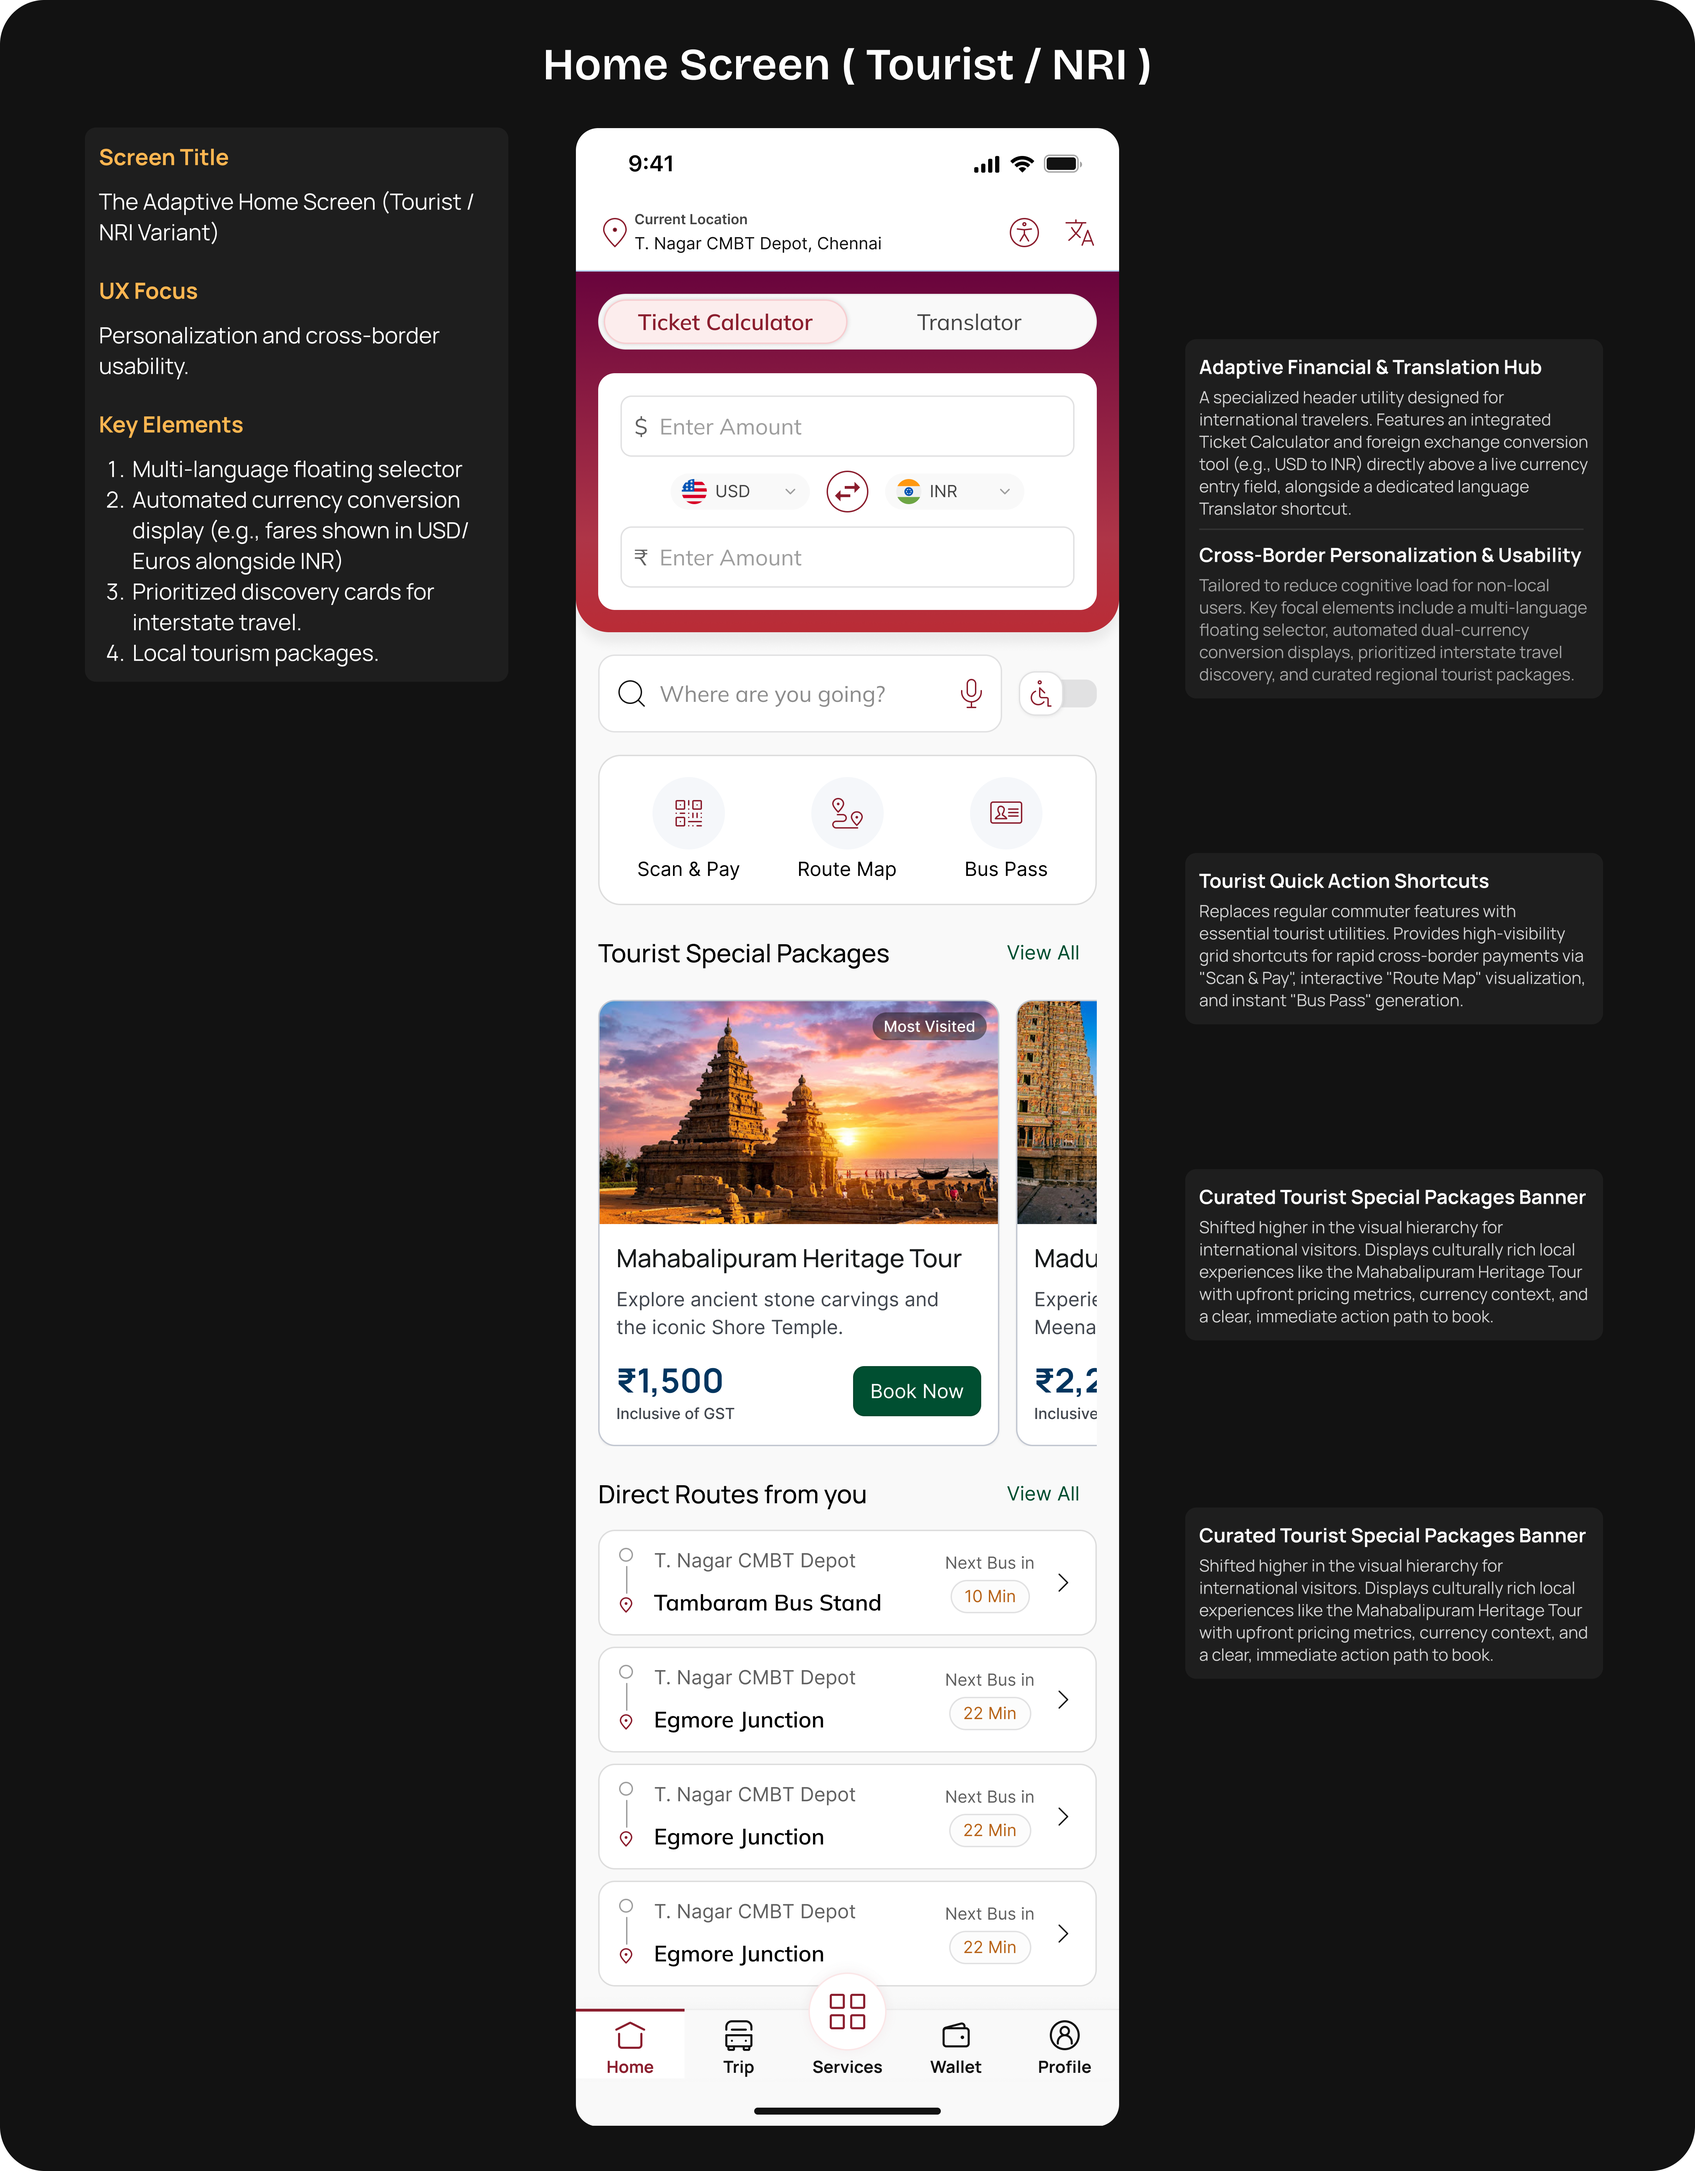
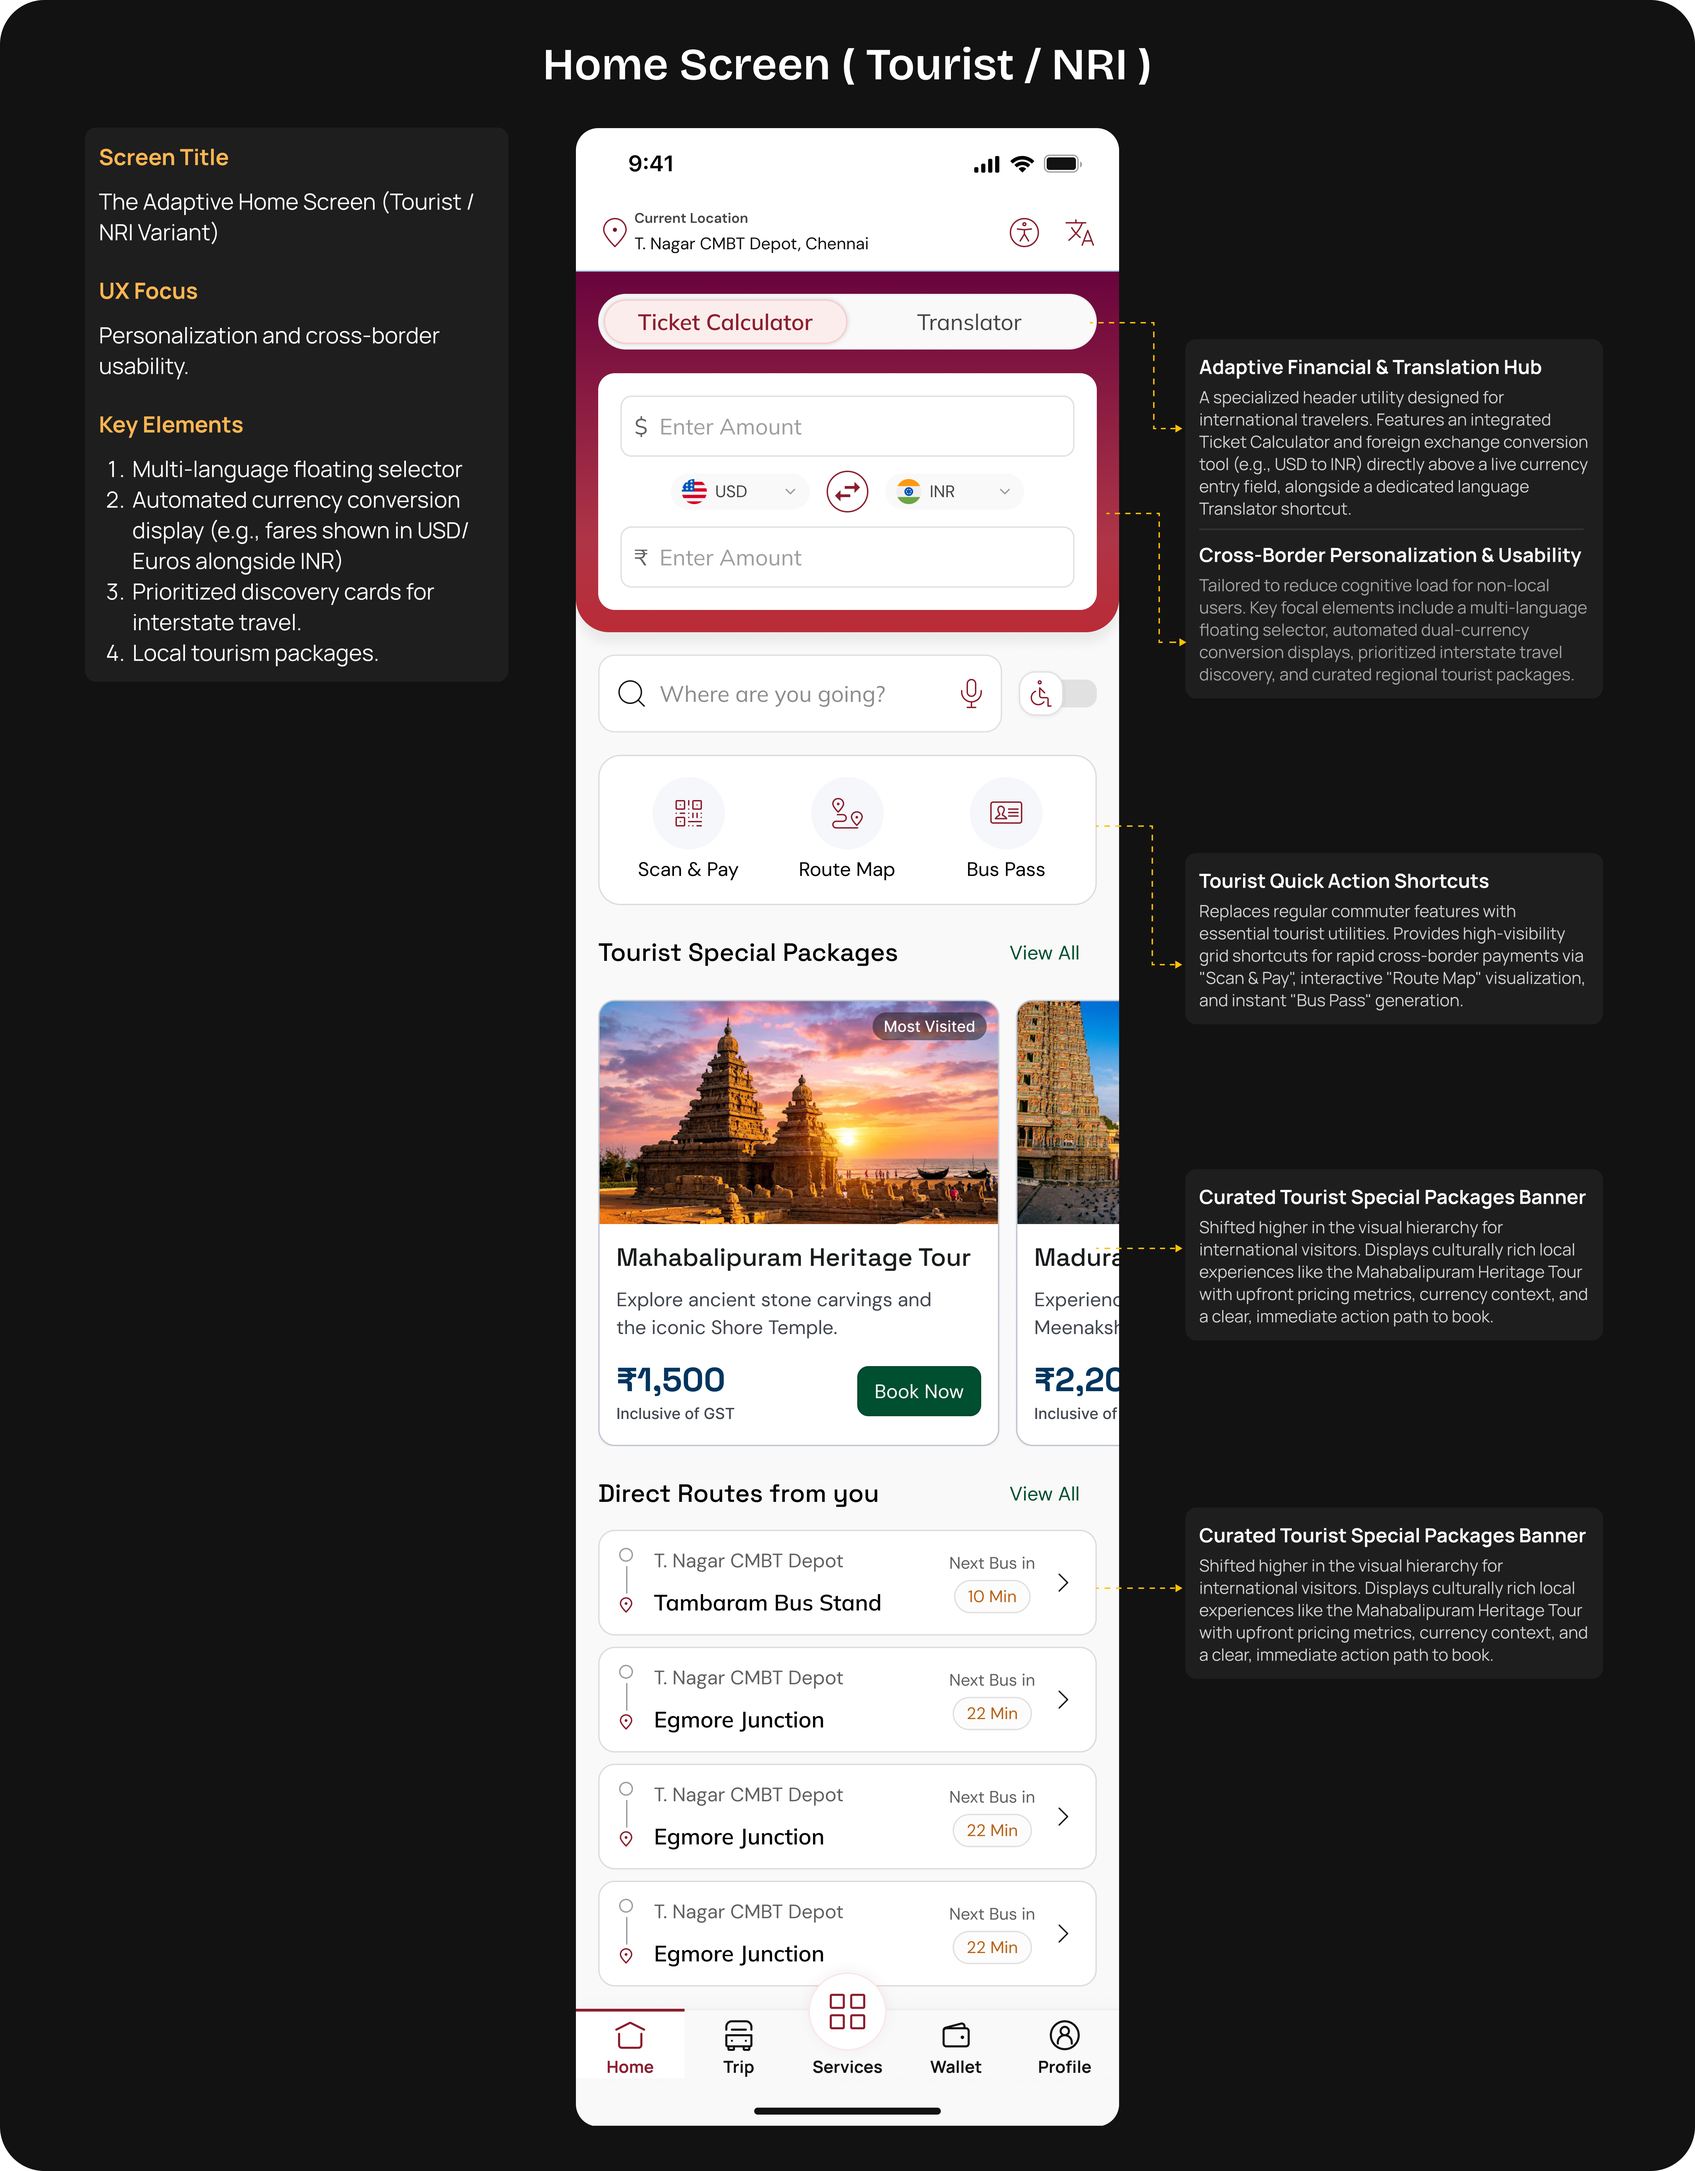
new

diff --git a/index.html b/index.html
@@ -8,8 +8,8 @@
     <meta name="keywords" content="" />
 
     <!-- Favicons -->
-    <link href="assets/img/favicon.png" rel="icon" />
-    <link href="assets/img/apple-touch-icon.png" rel="apple-touch-icon" />
+    <link href="assets/img/favIcon.svg" rel="icon" />
+    <link href="assets/img/favIcon.svg" rel="apple-touch-icon" />
 
     <!-- Fonts -->
     <link href="https://fonts.googleapis.com" rel="preconnect" />
@@ -209,14 +209,10 @@
                           <span class="category">SETC UX CaseStudy</span>
                           <h4>New Architecture for TNSETC Digital Ecosystem</h4>
                           <div class="portfolio-links">
-                            <a
-                              href="assets/img/portfolio/portfolio-portrait-1.webp"
-                              class="glightbox"
-                              title="Capturing Moments"
-                              ><i class="bi bi-plus-lg"></i
-                            ></a>
                             <a href="/setc-casestudy.html" title="More Details"
-                              ><i class="bi bi-arrow-right"></i
+                              >Read More&nbsp;&nbsp;<i
+                                class="bi bi-arrow-right"
+                              ></i
                             ></a>
                           </div>
                         </div>
@@ -224,13 +220,13 @@
                     </div>
                   </div>
                   <!-- Webapp -->
-                  <!--
+
                   <div
                     class="col-lg-12 col-md-12 portfolio-item isotope-item filter-mobileapp"
                   >
                     <div class="portfolio-wrap">
                       <img
-                        src="assets/img/portfolio/portfolio-2.webp"
+                        src="assets/img/portfolio/SetcBanner.jpg"
                         class="img-fluid"
                         alt="Portfolio Image"
                         loading="lazy"
@@ -241,7 +237,7 @@
                           <h4>Woodcraft Design</h4>
                           <div class="portfolio-links">
                             <a
-                              href="assets/img/portfolio/portfolio-2.webp"
+                              href="assets/img/portfolio/SetcBanner.jpg"
                               class="glightbox"
                               title="Woodcraft Design"
                               ><i class="bi bi-plus-lg"></i
@@ -263,7 +259,7 @@
                   >
                     <div class="portfolio-wrap">
                       <img
-                        src="assets/img/portfolio/portfolio-portrait-2.webp"
+                        src="assets/img/portfolio/SetcBanner.jpg"
                         class="img-fluid"
                         alt="Portfolio Image"
                         loading="lazy"
@@ -274,7 +270,7 @@
                           <h4>Classic Beauty</h4>
                           <div class="portfolio-links">
                             <a
-                              href="assets/img/portfolio/portfolio-portrait-2.webp"
+                              href="assets/img/portfolio/SetcBanner.jpg"
                               class="glightbox"
                               title="Classic Beauty"
                               ><i class="bi bi-plus-lg"></i
@@ -296,7 +292,7 @@
                   >
                     <div class="portfolio-wrap">
                       <img
-                        src="assets/img/portfolio/portfolio-6.webp"
+                        src="assets/img/portfolio/SetcBanner.jpg"
                         class="img-fluid"
                         alt="Portfolio Image"
                         loading="lazy"
@@ -307,7 +303,7 @@
                           <h4>Digital Experience</h4>
                           <div class="portfolio-links">
                             <a
-                              href="assets/img/portfolio/portfolio-6.webp"
+                              href="assets/img/portfolio/SetcBanner.jpg"
                               class="glightbox"
                               title="Digital Experience"
                               ><i class="bi bi-plus-lg"></i

diff --git a/assets/css/main.css b/assets/css/main.css
@@ -1951,7 +1951,8 @@ display: flex;
   left: 0;
   right: 0;
   padding: 25px;
-  background: var(--bs-dark);
+  background: #ffffff8a;
+  backdrop-filter: blur(15px);
   z-index: 3;
   transition: all 0.4s cubic-bezier(0.215, 0.61, 0.355, 1);
   transform: translateY(20px);
@@ -1965,7 +1966,7 @@ display: flex;
 
 .portfolio .portfolio-wrap .portfolio-info .category {
   display: inline-block;
-  color: #fff;
+  color: #2b2b2b;
   font-size: 14px;
   font-weight: 500;
   text-transform: uppercase;
@@ -1975,7 +1976,7 @@ display: flex;
 
 .portfolio .portfolio-wrap .portfolio-info h4 {
   font-size: 20px;
-  color: var(--contrast-color);
+  color: #2b2b2b;
   font-weight: 700;
   margin-bottom: 15px;
 }
@@ -1987,7 +1988,9 @@ display: flex;
 
 .portfolio .portfolio-wrap .portfolio-info .portfolio-links a {
   color: var(--contrast-color);
-  width: 40px;
+  width: fit-content;
+    padding: 12px 12px;
+    border-radius: 8px !important;
   height: 40px;
   display: flex;
   align-items: center;
@@ -2014,6 +2017,8 @@ display: flex;
 .portfolio .portfolio-wrap:hover .portfolio-info {
   transform: translateY(0);
   opacity: 1;
+  height: 350px;
+    align-content: center;
 }
 
 .portfolio .portfolio-wrap:hover .portfolio-info .content {

diff --git a/setc-casestudy.html b/setc-casestudy.html
@@ -8,8 +8,8 @@
     <meta name="keywords" content="" />
 
     <!-- Favicons -->
-    <link href="assets/img/favicon.png" rel="icon" />
-    <link href="assets/img/apple-touch-icon.png" rel="apple-touch-icon" />
+    <link href="assets/img/favIcon.svg" rel="icon" />
+    <link href="assets/img/favIcon.svg" rel="apple-touch-icon" />
 
     <!-- Fonts -->
     <link href="https://fonts.googleapis.com" rel="preconnect" />
@@ -56,8 +56,8 @@
           <div class="row" style="display: flex; gap: 10px">
             <nav class="breadcrumbs">
               <ol>
-                <li><a href="index.html">Home</a></li>
                 <li class="current">SETC UX CaseStudy</li>
+                <li><a href="index.html">Home</a></li>
               </ol>
             </nav>
           </div>
